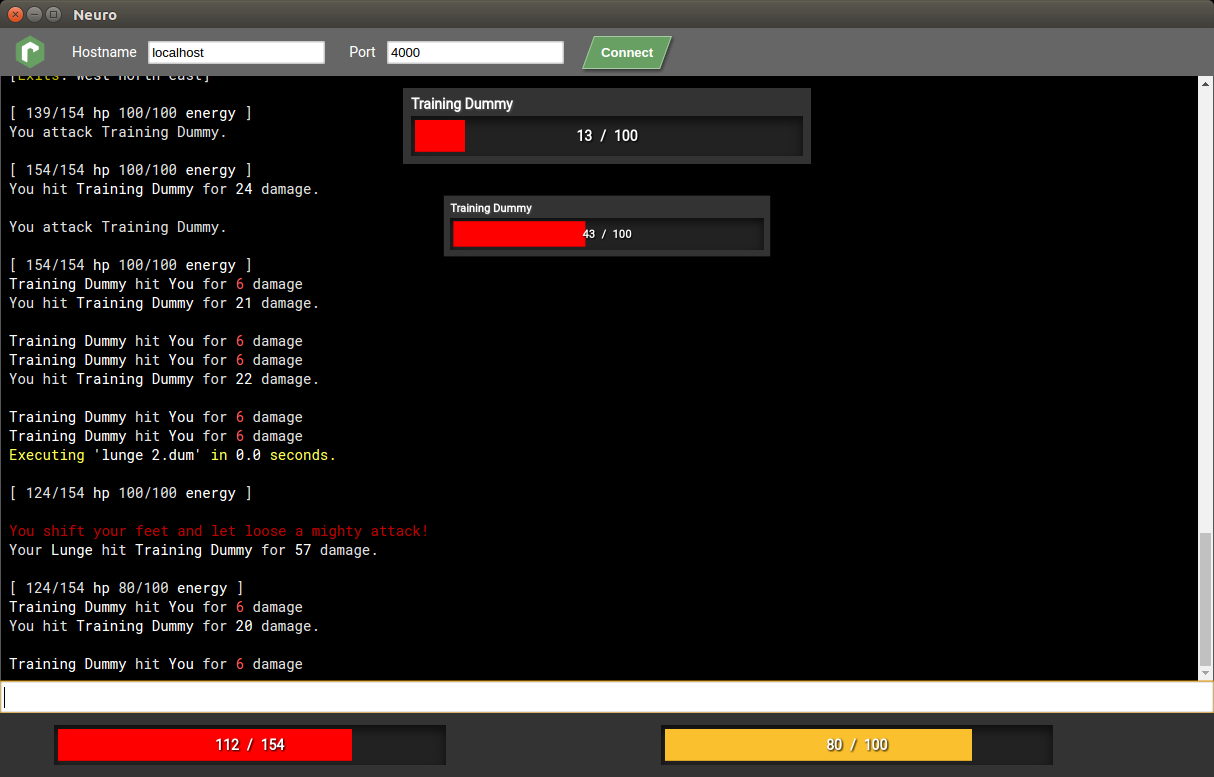
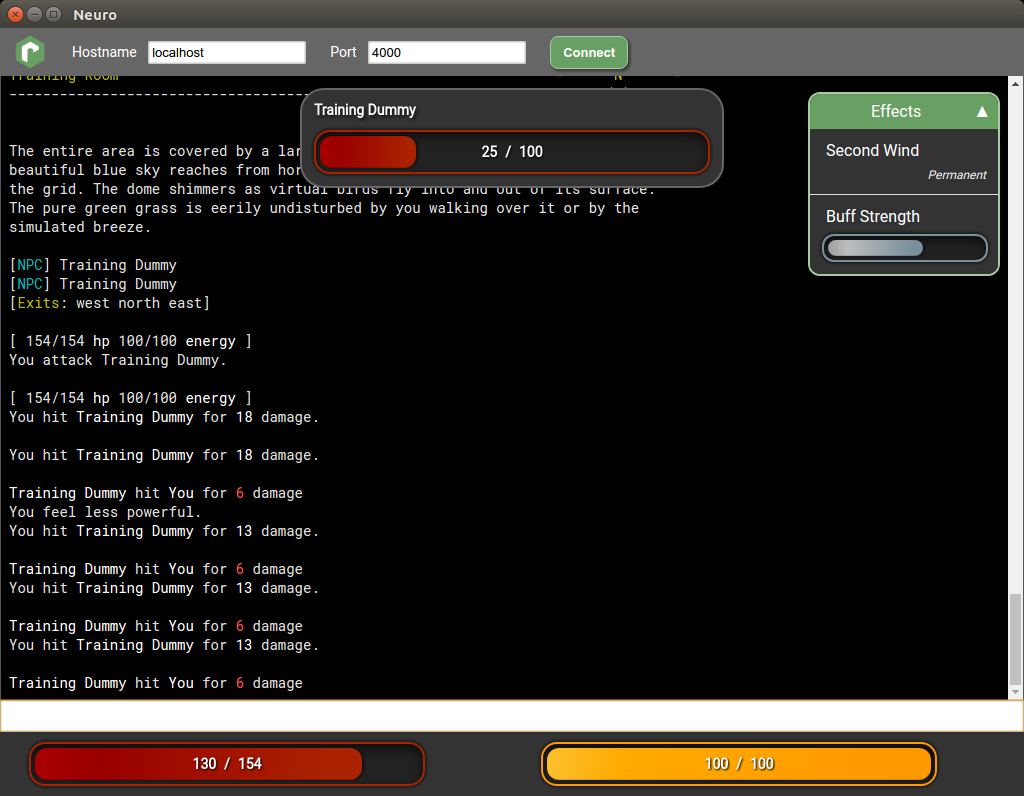
Prettification

Changed region(s): [[0.0, 0.0, 1.0, 0.9884]]

diff --git a/src/neuro-app/effect-display.html b/src/neuro-app/effect-display.html
@@ -7,8 +7,8 @@
   <template>
     <style>
       :host {
-        border: 1px solid #e0e0e0;
-        box-shadow: 2px 2px 4px rgba(255, 255, 255, 0.5);
+        border: 2px solid #a7caa4;
+        border-radius: 12px;
         cursor: pointer;
         display: block;
         overflow: hidden;
@@ -19,9 +19,8 @@
         font-size: 16px;
         text-align: center;
         font-weight: normal;
-        border-bottom: 2px solid #e0e0e0;
-        color: #000;
-        background-color: #e0e0e0;
+        color: #fff;
+        background-color: var(--ranvier-green);
         margin: 0;
         padding: 8px;
         display: flex;
@@ -43,14 +42,18 @@
       .effect__name {
         font-size: 16px;
         color: #fff;
+        margin-bottom: 8px;
+        padding-left: 4px;
       }
       .effect__duration {
-        --statbar-bg: #9e9e9e;
-        --statbar-current-bg: #bdbdbd;
-        width: 160px;
+        --statbar-current-bg1: #9e9e9e;
+        --statbar-current-bg2: #bdbdbd;
+        --statbar-current-bg3: #78909c;
+        width: 154px;
         height: 16px;
+        border-radius: 12px;
         --statbar-current: {
-          transition: none;
+          border-radius: 8px;
         };
       }
       .effect__duration[hidden] {

diff --git a/src/neuro-app/neuro-statbar.html b/src/neuro-app/neuro-statbar.html
@@ -6,12 +6,14 @@
     <style>
       :host {
         background-color: #222;
-        box-shadow: inset 0 5px 15px rgba(0, 0, 0, 0.6);
+        box-shadow: inset 0 5px 15px rgba(0, 0, 0, 0.6), -2px 0px 2px #222, 0px -2px 2px #222, 2px 0px 2px #222, 0px 2px 2px #222;
         display: flex;
         height: 32px;
         overflow: hidden;
         padding: 4px;
         width: 384px;
+        border-radius: 16px;
+          border: 2px solid var(--statbar-current-bg3, #a20);
       }
       #container {
         position: relative;
@@ -21,8 +23,9 @@
       #currentBar {
         height: 100%;
         transition: all 300ms ease;
-        background-color: var(--statbar-current-bg, #f00);
-        box-shadow: inset 0 -1px 0 rgba(0, 0, 0, 0.15);
+        border-radius: 12px;
+        background: linear-gradient(90deg, var(--statbar-current-bg1, #a00), var(--statbar-current-bg2, #900) 20%, var(--statbar-current-bg3, #A20) 90%);
+        box-shadow: inset 0 -1px 0 rgba(0, 0, 0, 0.15), 2px 0 4px #111;
         @apply --statbar-current;
       }
       #label {

diff --git a/src/neuro-app/target-display.html b/src/neuro-app/target-display.html
@@ -14,15 +14,17 @@
       }
 
       .target-bar {
-        padding: 8px;
+        border-radius: 24px;
+        border: 2px solid #666;
+        padding: 12px;
         background-color: #333;
         transform: scale(0.8);
-        margin: 12px 0;
+        margin: 12px 0 0 0;
       }
       .target-name {
-        margin-bottom: 4px;
+        margin-bottom: 12px;
         color: #fff;
-        text-shadow: 1px 1px 2px #555;
+        text-shadow: 2px 2px 4px #111;
         font-weight: bold;
       }
 

diff --git a/src/neuro-app/player-display.html b/src/neuro-app/player-display.html
@@ -16,8 +16,9 @@
       }
 
       .energy {
-        --statbar-bg: #F57F17;
-        --statbar-current-bg: #FBC02D;
+        --statbar-current-bg1: #FBC02D;
+        --statbar-current-bg2: #fa0;
+        --statbar-current-bg3: #f90;
       }
     </style>
     <template is="dom-if" if="[[data.attributes.health]]">

diff --git a/src/neuro-app/neuro-app.html b/src/neuro-app/neuro-app.html
@@ -56,8 +56,8 @@
 
       .ranvier-btn {
         background-color: var(--ranvier-green);
-        border: 0;
         border: 1px solid rgb(167, 202, 164);
+        border-radius: 8px;
         box-shadow: 2px 2px 4px #333;
         color: #fff;
         cursor: pointer;
